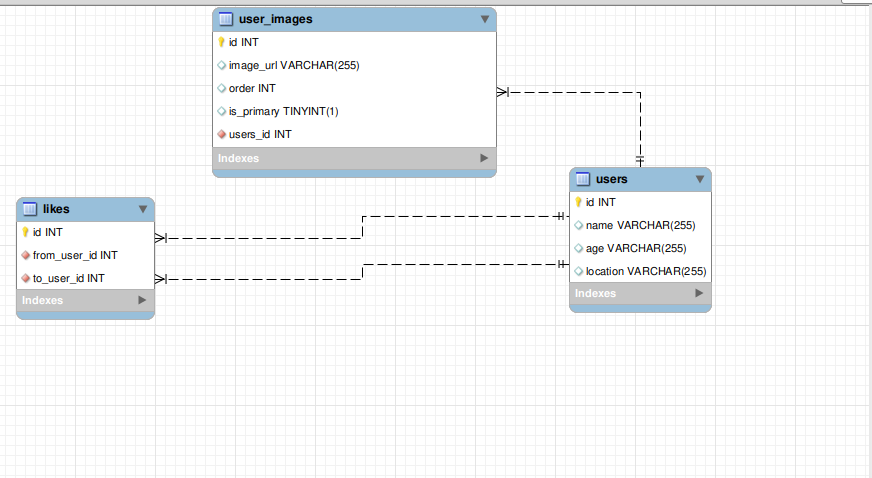
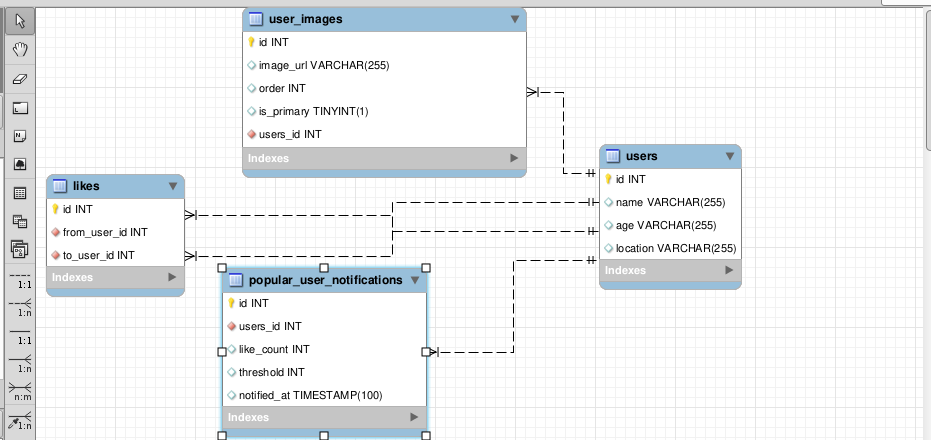
request

diff --git a/tests/Feature/LikeRequestValidationTest.php b/tests/Feature/LikeRequestValidationTest.php
@@ -1,0 +1,87 @@
+<?php
+
+namespace Tests\Feature;
+
+use App\Models\User;
+use Illuminate\Foundation\Testing\RefreshDatabase;
+use Tests\TestCase;
+
+class LikeRequestValidationTest extends TestCase
+{
+    use RefreshDatabase;
+
+    public function test_store_like_validates_required_fields(): void
+    {
+        $response = $this->postJson('/api/likes', []);
+
+        $response->assertStatus(422)
+            ->assertJsonValidationErrors(['to_user_id'])
+            ->assertJsonPath('errors.to_user_id.0', 'The user to receive the like is required.');
+    }
+
+    public function test_store_like_validates_user_existence(): void
+    {
+        $response = $this->postJson('/api/likes', [
+            'from_user_id' => 9999,
+            'to_user_id' => 9998,
+        ]);
+
+        $response->assertStatus(422)
+            ->assertJsonValidationErrors(['from_user_id', 'to_user_id'])
+            ->assertJsonPath('errors.from_user_id.0', 'The selected user who is giving the like does not exist.')
+            ->assertJsonPath('errors.to_user_id.0', 'The selected user to receive the like does not exist.');
+    }
+
+    public function test_store_like_allows_null_from_user_id(): void
+    {
+        $toUser = User::factory()->create();
+
+        $response = $this->postJson('/api/likes', [
+            'from_user_id' => null,
+            'to_user_id' => $toUser->id,
+        ]);
+
+        $response->assertStatus(201);
+    }
+
+    public function test_remove_like_validates_required_fields(): void
+    {
+        $response = $this->deleteJson('/api/likes/remove', []);
+
+        $response->assertStatus(422)
+            ->assertJsonValidationErrors(['to_user_id'])
+            ->assertJsonPath('errors.to_user_id.0', 'The user who received the like is required.');
+    }
+
+    public function test_remove_like_validates_user_existence(): void
+    {
+        $response = $this->deleteJson('/api/likes/remove', [
+            'from_user_id' => 9999,
+            'to_user_id' => 9998,
+        ]);
+
+        $response->assertStatus(422)
+            ->assertJsonValidationErrors(['from_user_id', 'to_user_id'])
+            ->assertJsonPath('errors.from_user_id.0', 'The selected user who gave the like does not exist.')
+            ->assertJsonPath('errors.to_user_id.0', 'The selected user who received the like does not exist.');
+    }
+
+    public function test_remove_like_allows_null_from_user_id(): void
+    {
+        $toUser = User::factory()->create();
+
+        // First create an anonymous like
+        $this->postJson('/api/likes', [
+            'from_user_id' => null,
+            'to_user_id' => $toUser->id,
+        ]);
+
+        // Then remove it
+        $response = $this->deleteJson('/api/likes/remove', [
+            'from_user_id' => null,
+            'to_user_id' => $toUser->id,
+        ]);
+
+        $response->assertStatus(200);
+    }
+}

diff --git a/app/Http/Requests/RemoveLikeRequest.php b/app/Http/Requests/RemoveLikeRequest.php
@@ -1,0 +1,56 @@
+<?php
+
+namespace App\Http\Requests;
+
+use Illuminate\Foundation\Http\FormRequest;
+
+class RemoveLikeRequest extends FormRequest
+{
+    /**
+     * Determine if the user is authorized to make this request.
+     */
+    public function authorize(): bool
+    {
+        return true;
+    }
+
+    /**
+     * Get the validation rules that apply to the request.
+     *
+     * @return array<string, \Illuminate\Contracts\Validation\ValidationRule|array<mixed>|string>
+     */
+    public function rules(): array
+    {
+        return [
+            'from_user_id' => 'nullable|exists:users,id',
+            'to_user_id' => 'required|exists:users,id',
+        ];
+    }
+
+    /**
+     * Get custom error messages for validation rules.
+     *
+     * @return array<string, string>
+     */
+    public function messages(): array
+    {
+        return [
+            'from_user_id.exists' => 'The selected user who gave the like does not exist.',
+            'to_user_id.required' => 'The user who received the like is required.',
+            'to_user_id.exists' => 'The selected user who received the like does not exist.',
+        ];
+    }
+
+    /**
+     * Get custom attribute names for validation errors.
+     *
+     * @return array<string, string>
+     */
+    public function attributes(): array
+    {
+        return [
+            'from_user_id' => 'user who gave the like',
+            'to_user_id' => 'user who received the like',
+        ];
+    }
+}

diff --git a/app/Http/Requests/StoreLikeRequest.php b/app/Http/Requests/StoreLikeRequest.php
@@ -1,0 +1,56 @@
+<?php
+
+namespace App\Http\Requests;
+
+use Illuminate\Foundation\Http\FormRequest;
+
+class StoreLikeRequest extends FormRequest
+{
+    /**
+     * Determine if the user is authorized to make this request.
+     */
+    public function authorize(): bool
+    {
+        return true;
+    }
+
+    /**
+     * Get the validation rules that apply to the request.
+     *
+     * @return array<string, \Illuminate\Contracts\Validation\ValidationRule|array<mixed>|string>
+     */
+    public function rules(): array
+    {
+        return [
+            'from_user_id' => 'nullable|exists:users,id',
+            'to_user_id' => 'required|exists:users,id',
+        ];
+    }
+
+    /**
+     * Get custom error messages for validation rules.
+     *
+     * @return array<string, string>
+     */
+    public function messages(): array
+    {
+        return [
+            'from_user_id.exists' => 'The selected user who is giving the like does not exist.',
+            'to_user_id.required' => 'The user to receive the like is required.',
+            'to_user_id.exists' => 'The selected user to receive the like does not exist.',
+        ];
+    }
+
+    /**
+     * Get custom attribute names for validation errors.
+     *
+     * @return array<string, string>
+     */
+    public function attributes(): array
+    {
+        return [
+            'from_user_id' => 'user giving the like',
+            'to_user_id' => 'user receiving the like',
+        ];
+    }
+}

diff --git a/app/Http/Controllers/Api/LikeController.php b/app/Http/Controllers/Api/LikeController.php
@@ -4,6 +4,8 @@ namespace App\Http\Controllers\Api;
 
 use App\Events\UserLiked;
 use App\Http\Controllers\Controller;
+use App\Http\Requests\RemoveLikeRequest;
+use App\Http\Requests\StoreLikeRequest;
 use App\Http\Resources\LikeResource;
 use App\Models\Like;
 use App\Models\User;
@@ -125,13 +127,8 @@ class LikeController extends Controller
      *     )
      * )
      */
-    public function store(Request $request): JsonResponse
+    public function store(StoreLikeRequest $request): JsonResponse
     {
-        $request->validate([
-            'from_user_id' => 'nullable|exists:users,id',
-            'to_user_id' => 'required|exists:users,id',
-        ]);
-
         try {
             $like = Like::create([
                 'from_user_id' => $request->from_user_id,
@@ -203,13 +200,8 @@ class LikeController extends Controller
      *     )
      * )
      */
-    public function removeLike(Request $request): JsonResponse
+    public function removeLike(RemoveLikeRequest $request): JsonResponse
     {
-        $request->validate([
-            'from_user_id' => 'nullable|exists:users,id',
-            'to_user_id' => 'required|exists:users,id',
-        ]);
-
         $like = Like::where('from_user_id', $request->from_user_id)
                    ->where('to_user_id', $request->to_user_id)
                    ->first();

diff --git a/tests/Feature/Api/UserControllerTest.php b/tests/Feature/Api/UserControllerTest.php
@@ -27,15 +27,7 @@ class UserControllerTest extends TestCase
                         'name',
                         'age',
                         'location',
-                        'image',
-                        'images' => [
-                            '*' => [
-                                'id',
-                                'image_url',
-                                'order',
-                                'is_primary',
-                            ],
-                        ],
+                        'images',
                         'primary_image',
                         'created_at',
                         'updated_at',

diff --git a/app/Providers/AppServiceProvider.php b/app/Providers/AppServiceProvider.php
@@ -20,9 +20,9 @@ class AppServiceProvider extends ServiceProvider
     public function boot(): void
     {
         // Register event listeners
-        \Illuminate\Support\Facades\Event::listen(
-            \App\Events\UserLiked::class,
-            \App\Listeners\CheckPopularUser::class,
-        );
+        // \Illuminate\Support\Facades\Event::listen(
+        //     \App\Events\UserLiked::class,
+        //     \App\Listeners\CheckPopularUser::class,
+        // );
     }
 }

diff --git a/app/Http/Resources/UserResource.php b/app/Http/Resources/UserResource.php
@@ -19,7 +19,6 @@ class UserResource extends JsonResource
             'name' => $this->name,
             'age' => $this->age,
             'location' => $this->location,
-            'image' => $this->image, // Keep for backward compatibility
             'images' => $this->whenLoaded('images', function () {
                 return $this->images->map(function ($image) {
                     return $image->image_url ;

diff --git a/app/Models/User.php b/app/Models/User.php
@@ -20,7 +20,6 @@ class User extends Model
         'name',
         'age',
         'location',
-        'image', // Keep for backward compatibility
     ];
 
     /**
